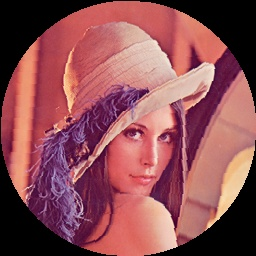
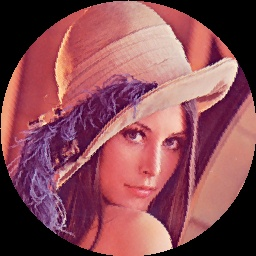
review args

diff --git a/gauss_newton_method.py b/gauss_newton_method.py
@@ -3,27 +3,33 @@
 入力画像と相似変換によって変換した出力画像から回転角度θとスケールパラメータsをガウス・ニュートン法によって推定するプログラム
 【使用方法】
 入力：
-・元画像
-・相似変換した画像
+・使用する画像
+・真値（角度、スケール）
+・初期値（角度、スケール）
+・終了条件（閾値、最大反復回数）
+・ガウシアンフィルタのパラメータ（カーネルサイズ、シグマ）
 出力：
 ・回転角度
 ・スケールパラメータ
 実行：
-python gauss_newton_method.py input.jpg output.jpg
+python gauss_newton_method.py {画像のパス} {真値の角度(deg)} {真値のスケール} {初期値の角度(deg)} {初期値のスケール} {収束判定の閾値} {最大反復回数} {ガウシアンフィルタのカーネルサイズ} {ガウシアンフィルタのシグマ}
+python gauss_newton_method.py input/color/Lenna.bmp --scale_true 1 --theta_true 5 --scale_init 1 --theta_init 0 --threshold 1e-5 --max_loop 1000 --kernel_size 5 --sigma 2
 
 【情報】
 作成者：勝田尚樹
 作成日：2025/7/23
 """
 import sys
+import argparse
 import cv2
 import numpy as np
 import matplotlib.pyplot as plt
 import similarity_transform as st
+import plot_objective_function as pof
 
 
 # x方向とy方向に平滑微分フィルタを適用する
-def apply_smoothing_differrential_filter(img, kernel_size=3, sigma=1):
+def apply_smoothing_differrential_filter(img, kernel_size, sigma):
     # 平滑化
     img_blurred = cv2.GaussianBlur(img, (kernel_size, kernel_size), sigmaX=sigma)
     # cv2.imshow("img_blurred", img_blurred)
@@ -45,27 +51,24 @@ def apply_smoothing_differrential_filter(img, kernel_size=3, sigma=1):
     return dx_disp, dy_disp
 
 # ガウスニュートン法によりパラメータを推定する
-def estimate_by_gauss_newton_method(img_input, img_output, theta_init=0, scale_init=1, threshold=1e-5, max_loop=1000):
+def estimate_by_gauss_newton_method(img_input, img_output, *, scale_init=1, theta_init=0, threshold=1e-6, max_loop=1000, kernel_size=5, sigma=2):
     # 初期値設定
     theta = np.deg2rad(theta_init)
     scale = scale_init
-
     I_prime_org = img_input
     I = img_output
-
     theta_history = []
     scale_history = []
-    
     H, W = I.shape[:2]
     y_coords, x_coords = np.meshgrid(np.arange(H), np.arange(W), indexing='ij')
     x_coords = x_coords - W / 2
     y_coords = y_coords - H / 2
-    # breakpoint()
     for i in range(max_loop):
+        # 推定値を使って画像を相似変換
         M = st.compute_M(scale, theta, 0, 0)
         I_prime = st.apply_similarity_transform_reverse(I_prime_org, M)
         I_prime = st.crop_img_into_circle(I_prime)
-        I_prime_dx, I_prime_dy = apply_smoothing_differrential_filter(I_prime, kernel_size=5, sigma=2)
+        I_prime_dx, I_prime_dy = apply_smoothing_differrential_filter(I_prime, kernel_size=kernel_size, sigma=sigma)
         # JθとJθθの計算
         dxprime_dtheta = -scale * (x_coords * np.sin(theta) + y_coords * np.cos(theta))
         dyprime_dtheta = scale * (x_coords * np.cos(theta) - y_coords * np.sin(theta))
@@ -104,57 +107,46 @@ def estimate_by_gauss_newton_method(img_input, img_output, theta_init=0, scale_i
     print(f"反復回数：{i}")
     return theta, scale, theta_history, scale_history
 
-# 目的関数を3次元空間にプロットする。極小値確認用。ただし、めっちゃ実行時間かかる
-def visualize_objective_function(img_input, img_output):
-    # パラメータ範囲
-    I_prime_org = img_input
-    I = img_output
-    theta_values = np.arange(0, 30, 1)  
-    scale_values = np.arange(0.5, 1.6, 0.1)    
-    # Jの結果格納用 (scale x theta の2次元配列)
-    J_values = np.zeros((len(scale_values), len(theta_values)))
-    # I と I_prime は事前に用意されているものとする
-    for i, scale in enumerate(scale_values):
-        for j, theta in enumerate(theta_values):
-            # 角度をラジアンに変換
-            theta_rad = np.deg2rad(theta)
-            # 相似変換を適用
-            M = st.compute_M(scale, theta_rad, 0, 0)
-            I_prime = st.apply_similarity_transform_reverse(I_prime_org, M)
-            I_prime_cropped = st.crop_img_into_circle(I_prime)
-            # 目的関数Jを計算
-            J = 0.5 * np.sum((I_prime_cropped - I) ** 2)
-            J_values[i, j] = J
-    # すでに計算済みの J_values, theta_values, scale_values を使用
-    Theta, Scale = np.meshgrid(theta_values, scale_values)
-    fig = plt.figure(figsize=(10, 7))
-    ax = fig.add_subplot(111, projection='3d')
-    # 3Dサーフェスプロット
-    surf = ax.plot_surface(Theta, Scale, J_values, cmap='viridis', edgecolor='none')
-    # 軸ラベル
-    ax.set_xlabel('Theta (degrees)')
-    ax.set_ylabel('Scale')
-    ax.set_zlabel('Objective Function J')
-    ax.set_title('3D Plot of J(Theta, Scale)')
-    # カラーバー
-    fig.colorbar(surf, ax=ax, shrink=0.5, aspect=10, label='J')
-    plt.show()
-
 def main():
     # データ準備
-    if len(sys.argv) != 3:
-        print("Usage: python gauss_newton_method.py {元画像のパス} {相似変換した画像のパス}")
-        sys.exit(1)
-    img_input_path = sys.argv[1]
-    img_output_path = sys.argv[2]
-    img_input = cv2.imread(img_input_path, cv2.IMREAD_GRAYSCALE)
-    img_output = cv2.imread(img_output_path, cv2.IMREAD_GRAYSCALE)
-    cv2.imshow("input", img_input)
-    cv2.imshow("output", img_output)
+    parser = argparse.ArgumentParser(description="ガウス・ニュートン法の実験パラメータ設定")
+    parser.add_argument("image_path", type=str, help="入力画像のパス")
+    parser.add_argument("--scale_true", type=float, required=True, help="真値のスケール")
+    parser.add_argument("--theta_true", type=float, required=True, help="真値の角度(deg)")
+    parser.add_argument("--scale_init", type=float, default=1, help="初期値のスケール")
+    parser.add_argument("--theta_init", type=float, default=0, help="初期値の角度(deg)")
+    parser.add_argument("--threshold", type=float, default=1e-5, help="収束判定の閾値")
+    parser.add_argument("--max_loop", type=int, default=1000, help="最大反復回数")
+    parser.add_argument("--kernel_size", type=int, default=5, help="ガウシアンフィルタのカーネルサイズ")
+    parser.add_argument("--sigma", type=float, default=2, help="ガウシアンフィルタのシグマ")
+    args = parser.parse_args()
+    img_path = args.image_path
+    scale_true = args.scale_true
+    theta_true_deg = args.theta_true
+    scale_init = args.scale_init
+    theta_init_deg = args.theta_init
+    threshold = args.threshold
+    max_loop = args.max_loop
+    kernel_size = args.kernel_size
+    sigma = args.sigma
+    # 画像読み込みと相似変換の適用
+    img_input = cv2.imread(img_path, cv2.IMREAD_GRAYSCALE)
+    img_input_cropped = st.crop_img_into_circle(img_input)
+    M = st.compute_M(scale_true, np.deg2rad(theta_true_deg), 0, 0)
+    img_output = st.apply_similarity_transform_reverse(img_input_cropped, M)
+    img_output_cropped = st.crop_img_into_circle(img_output)
+    cv2.imshow("input", img_input_cropped)
+    cv2.imshow("output", img_output_cropped)
     cv2.waitKey(0)
     cv2.destroyAllWindows()
     # ガウスニュートン法によりパラメータを推定
-    theta, scale, theta_history, scale_history = estimate_by_gauss_newton_method(img_input, img_output)
+    theta, scale, theta_history, scale_history = estimate_by_gauss_newton_method(img_input_cropped, img_output_cropped, 
+                                                                                 scale_init=scale_init, 
+                                                                                 theta_init=theta_init_deg, 
+                                                                                 threshold=threshold, 
+                                                                                 max_loop=max_loop, 
+                                                                                 kernel_size=kernel_size, 
+                                                                                 sigma=sigma)
     # 可視化
     print(f"(deg):{np.rad2deg(theta)},\t (rad):{theta},\t (scale):{scale}")
     plt.plot(theta_history)
@@ -162,6 +154,10 @@ def main():
     plt.grid(True)
     plt.show()
     # 目的関数を可視化
-    # visualize_objective_function(img_input, img_output)
+    # pof.visualize_objective_function(img_input_cropped, img_output_cropped,
+    #                                  theta_max=10,
+    #                                  theta_min=0,
+    #                                  sigma_max=2,
+    #                                  simga_min=0.1)
 if __name__ == "__main__":
     main()

diff --git a/plot_objective_function.py b/plot_objective_function.py
@@ -1,0 +1,39 @@
+import numpy as np
+import matplotlib.pyplot as plt
+import similarity_transform as st
+
+# 目的関数を3次元空間にプロットする。極小値確認用。ただし、めっちゃ実行時間かかる
+def visualize_objective_function(img_input, img_output, theta_min=0, theta_max=10, simga_min=0.1, sigma_max=2):
+    # パラメータ範囲
+    I_prime_org = img_input
+    I = img_output
+    theta_values = np.arange(theta_min, theta_max, 1)  
+    scale_values = np.arange(simga_min, sigma_max, 0.1)    
+    # Jの結果格納用 (scale x theta の2次元配列)
+    J_values = np.zeros((len(scale_values), len(theta_values)))
+    # I と I_prime は事前に用意されているものとする
+    for i, scale in enumerate(scale_values):
+        for j, theta in enumerate(theta_values):
+            # 角度をラジアンに変換
+            theta_rad = np.deg2rad(theta)
+            # 相似変換を適用
+            M = st.compute_M(scale, theta_rad, 0, 0)
+            I_prime = st.apply_similarity_transform_reverse(I_prime_org, M)
+            I_prime_cropped = st.crop_img_into_circle(I_prime)
+            # 目的関数Jを計算
+            J = 0.5 * np.sum((I_prime_cropped - I) ** 2)
+            J_values[i, j] = J
+    # すでに計算済みの J_values, theta_values, scale_values を使用
+    Theta, Scale = np.meshgrid(theta_values, scale_values)
+    fig = plt.figure(figsize=(10, 7))
+    ax = fig.add_subplot(111, projection='3d')
+    # 3Dサーフェスプロット
+    surf = ax.plot_surface(Theta, Scale, J_values, cmap='viridis', edgecolor='none')
+    # 軸ラベル
+    ax.set_xlabel('Theta (degrees)')
+    ax.set_ylabel('Scale')
+    ax.set_zlabel('Objective Function J')
+    ax.set_title('3D Plot of J(Theta, Scale)')
+    # カラーバー
+    fig.colorbar(surf, ax=ax, shrink=0.5, aspect=10, label='J')
+    plt.show()
